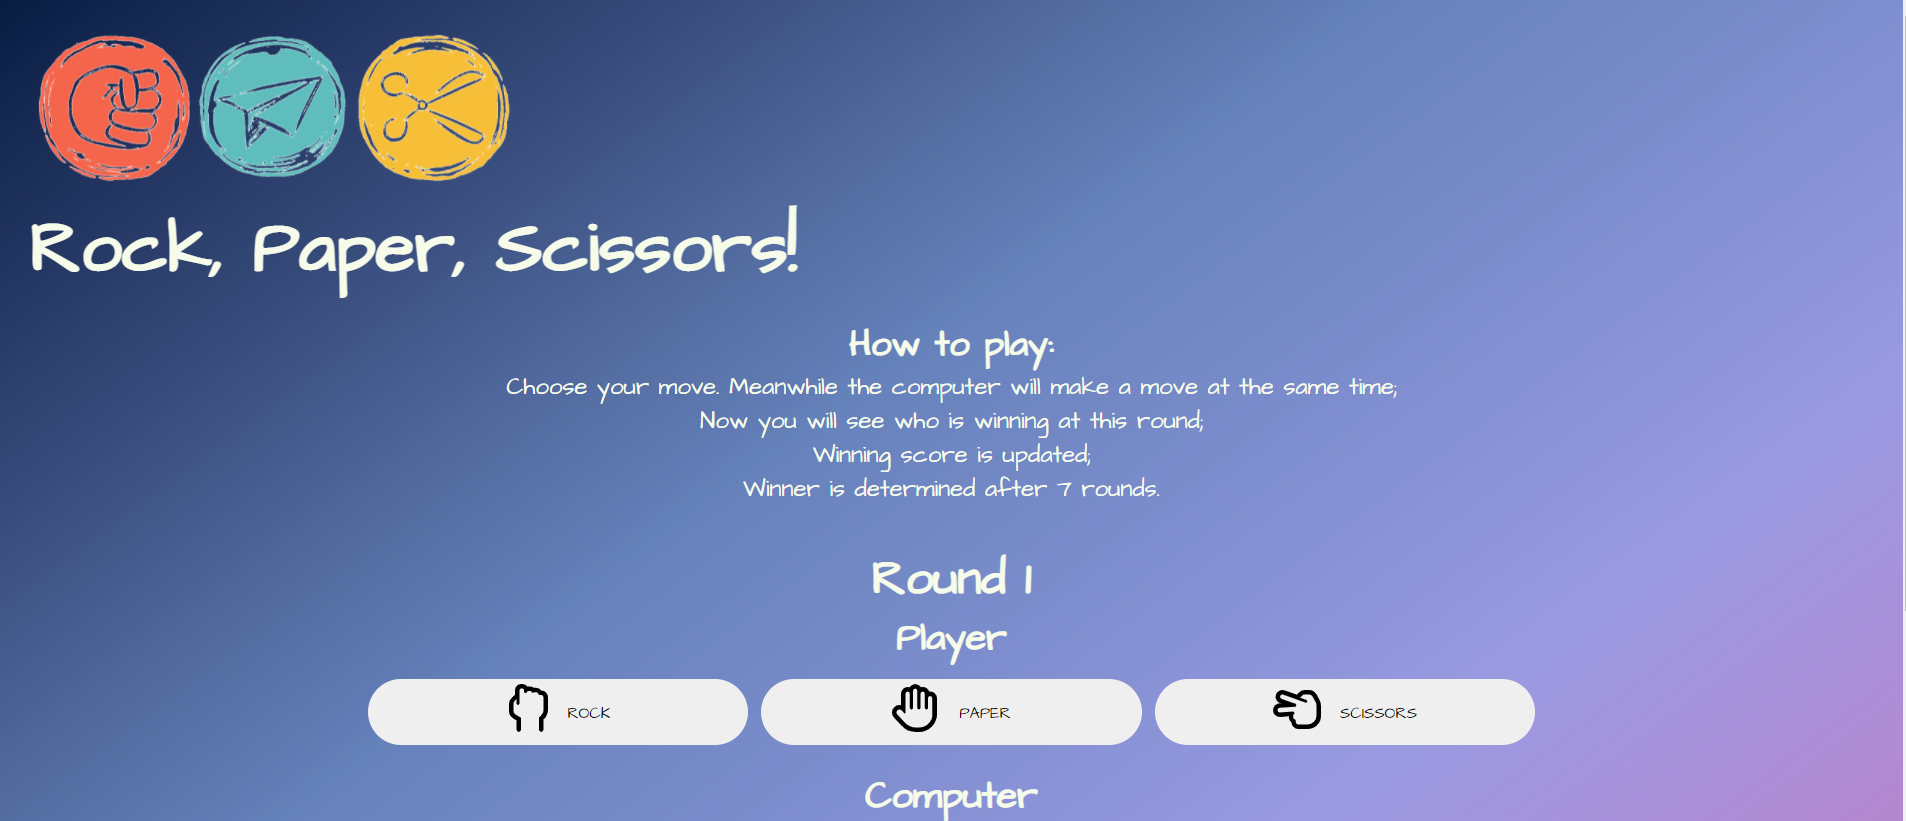
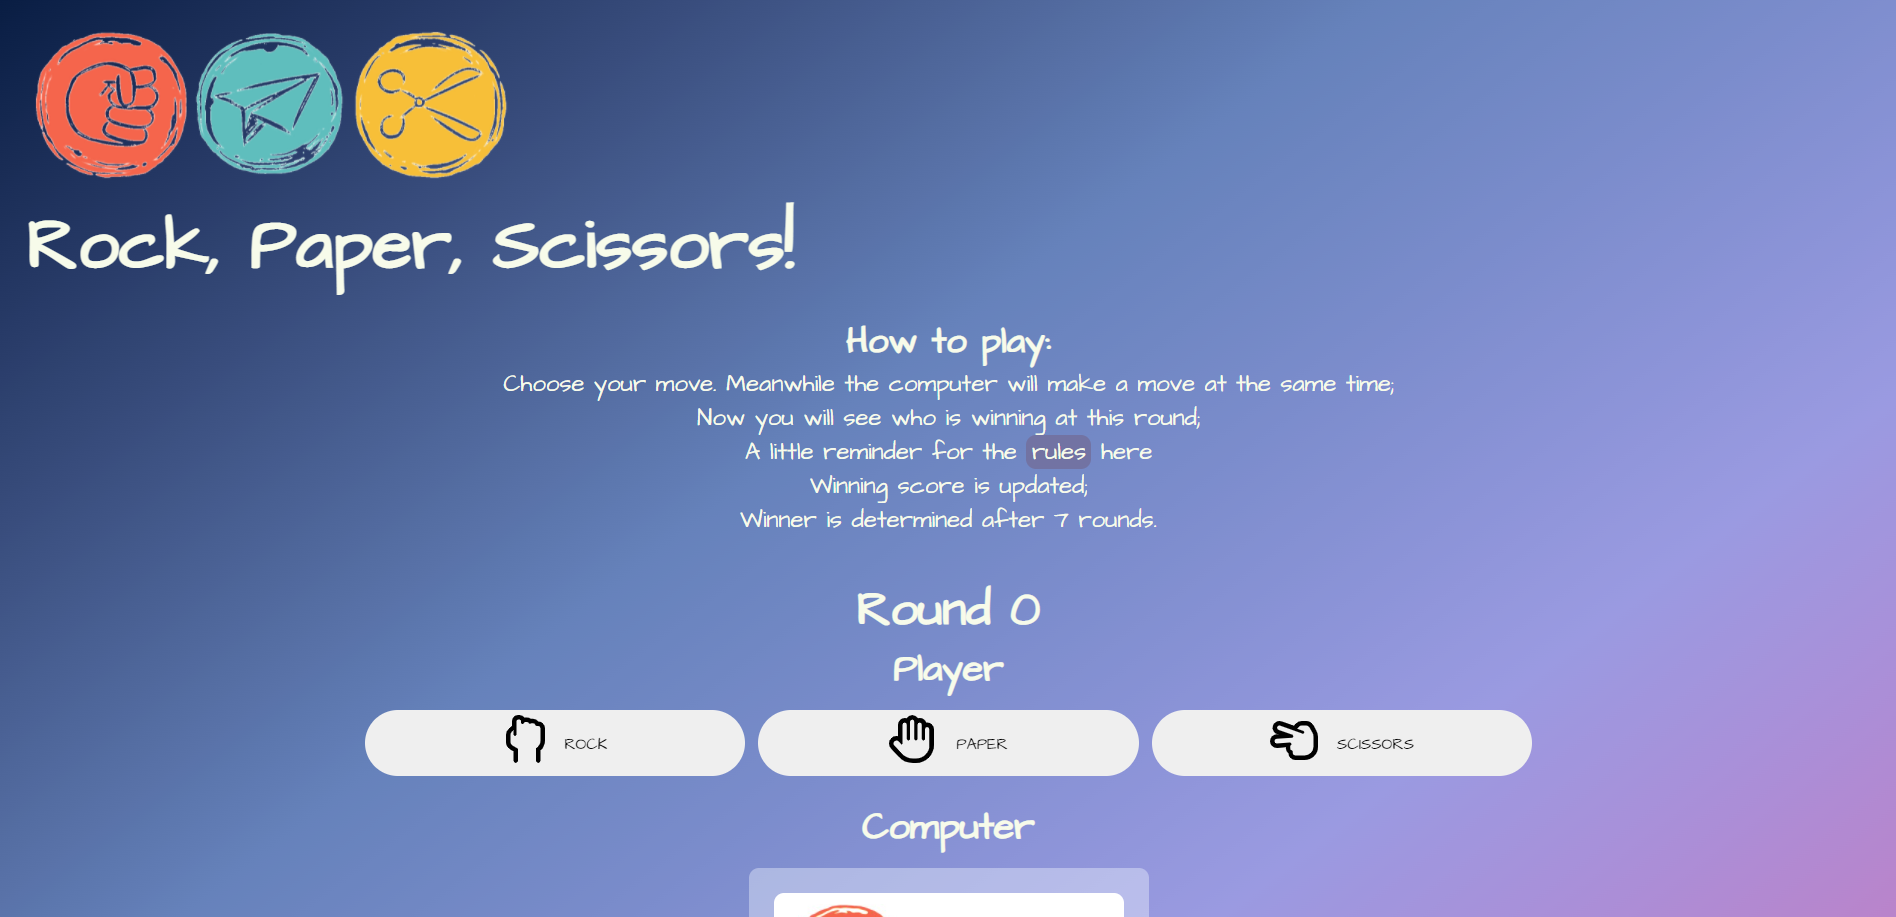
Modify responsive mockup and things I tried but didn't work section on readme file

diff --git a/README.md b/README.md
@@ -1,6 +1,6 @@
 # Let **[Rock, Paper, Scissors](https://maya-claveau.github.io/PP2-rps/)** bring all the good memories back from your childhood 
 
-<img src="assets/images/responsive-mockup.png" width="800">
+<img src="assets/images/responsive-mockup-vfinal.png" width="800">
 
 This was built with the intention of entertaining the player, with a classic game from almost everyone’s childhood. Main objectives are: 
 
@@ -21,15 +21,22 @@ Many of us are familiar with this game, we can even call it a classic. If you we
 ### Existing Features:
 #### Home page:
 
-First thing you see when you land on the website is the logo on the top left side with the title Rock, Paper, Scissors below it. Followed by the instructions of the game. Then you will come to the game area where the number of rounds are showing, so you know how many are left until the game is over. 
+First thing you see when you land on the website is the logo on the top left side with the title Rock, Paper, Scissors below it. Followed by the instructions of the game. 
 
 <br>
 <img src="assets/images/landing-page1.png" width="800">
-<br> 
+<br>
 <br>
 
-You have 3 options to choose from, so make your decision wisely. The computer will also make its choice the same time you make yours, so fair game for everyone. The winner for that round will get a point, when round 7 is completed, there will be a message informing you whether you are the winner or … you know.  
+By clicking the rule button, you will see the game rules in popup window.
 
+<br>
+<img src="assets/images/landing-page-popup.png" width="800">
+<br> 
+
+<p>Then you will come to the game area where the number of rounds are showing, so you know how many are left until the game is over.</p>
+
+<p>You have 3 options to choose from, so make your decision wisely. The computer will also make its choice the same time you make yours, so fair game for everyone. The winner for that round will get a point, when round 7 is completed, there will be a message informing you whether you are the winner or … you know.</p>
 
 <br>
 <img src="assets/images/landing-page2.png" width="800">
@@ -132,7 +139,7 @@ Google dev tools became my first choice for testing purposes. I use it on a dail
 
 - [Am I Responsive](http://ami.responsivedesign.is/?url=https%3A%2F%2Fmaya-claveau.github.io%2FPP2-rps%2F) for making the responsive screenshot
 
-<img src="assets/images/responsive-mockup.png" width="250">
+<img src="assets/images/responsive-mockup-vfinal.png" width="250">
 
 - [Font Awesome](https://fontawesome.com/) for the game play icons
 
@@ -179,6 +186,12 @@ The published link will be generated for live view, it can be found [here](https
 
 <p> I tried to fix the JavaScript warning, fellow student and mentor on Slack suggested using “const” and “foreach()” loop. I managed to remove the warning from JSHint, but the game function doesn’t work anymore. So I ended up switching back to the code that works for the game but with the warning message.
 </p>
+
+<p> Thanks to the peer-code-review channel on Slack, a fellow student pointed out that there is a bug. When the game is over, you can still click the option buttons, the round number won’t change, but the scores for both player and computer will still increment.</p>
+
+<img src="assets/images/gameover-bug.png" width="400">
+
+<p>I tried to disable the option buttons after round 7 and display none on the buttons after round 7, but didn’t manage to make it work. With the hope to get some help on a Friday evening, I for the first time jumped in with a call on Slack, luckily I found Sensei Bim there, with his help this issue was not an issue anymore. One small thing I have to note, is that when the game is over, the option buttons are clickable and the image of the computer's choice is still changing, but the scores and round number doesn't change. Due to the time constring, I didn’t manage to fix it. Other than that, the game works just fine.<p>
 
 ------
 ## **Difficulties that I manage to overcome**
